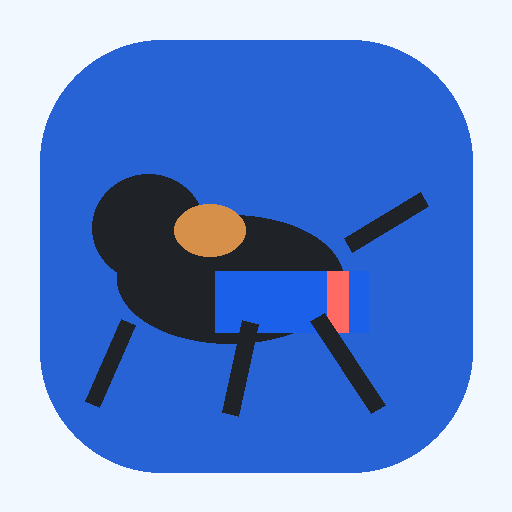
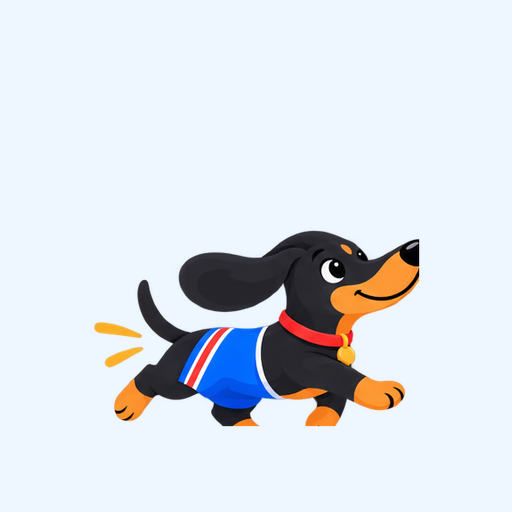
Nourish V3

diff --git a/styles.css b/styles.css
@@ -1,1 +1,18 @@
  :root{--blue:#2863d6;--green:#3fc27a;--coral:#ff6f68;--yellow:#ffc936;--purple:#8a6de9;--ink:#15305b;--muted:#6e7d95;--line:#e4ecf7;--bg:#f8fbff;--card:#fff;--shadow:0 10px 35px rgba(30,73,133,.08)}*{box-sizing:border-box}html,body{margin:0;background:var(--bg);color:var(--ink);font-family:-apple-system,BlinkMacSystemFont,"SF Pro Display","Segoe UI",sans-serif;-webkit-text-size-adjust:100%}body{min-height:100vh}button,input,select{font:inherit;font-size:16px}button{cursor:pointer}#splash{position:fixed;inset:0;background:linear-gradient(#eaf7ff,#fffaf0);z-index:100;display:flex;flex-direction:column;align-items:center;justify-content:center;text-align:center;transition:.35s}#splash.hide{opacity:0;pointer-events:none}#splash img{width:min(70vw,360px)}.splash-tag{margin-top:18px;color:var(--muted);font-weight:650}.hidden{visibility:hidden}header{display:flex;align-items:center;justify-content:space-between;padding:calc(10px + env(safe-area-inset-top)) 18px 8px;max-width:780px;margin:auto}.brand-wrap{display:flex;align-items:center;gap:8px}.brand-dog{width:64px;height:38px}.brand{font-size:26px;font-weight:900;letter-spacing:-.05em;color:#0d3a86;line-height:.8}.brand small{display:block;font-size:10px;letter-spacing:0;margin-left:24px}.brand.big{font-size:48px}.brand.big small{font-size:16px;margin-left:0}.lang-toggle,.settings-lang{display:flex;background:#eaf2ff;padding:3px;border-radius:12px}.lang-toggle button,.settings-lang button{border:0;background:transparent;color:var(--blue);font-weight:800;padding:7px 9px;border-radius:9px}.lang-toggle button.active,.settings-lang button.active{background:var(--blue);color:#fff}main{max-width:780px;margin:auto;padding:4px 14px calc(96px + env(safe-area-inset-bottom))}.page{display:none}.page.active{display:block}.card{background:var(--card);border:1px solid var(--line);border-radius:24px;box-shadow:var(--shadow);padding:17px;margin-bottom:12px}.hero{display:flex;justify-content:space-between;align-items:center;background:linear-gradient(135deg,#e8f6ff,#fff9e8);overflow:hidden;min-height:122px}.hero-dog{width:150px;margin:-10px -10px -20px 0}.hello{font-size:23px;font-weight:900;color:var(--blue);margin-bottom:8px}.hero-copy{font-size:14px;color:var(--muted);font-weight:650;max-width:180px}.date-row{display:flex;justify-content:center;margin:10px 0}.date-btn{border:0;background:transparent;color:var(--ink);font-weight:800}.kpi-grid{display:grid;grid-template-columns:repeat(4,1fr);gap:9px;margin-bottom:12px}.kpi{border-radius:20px;padding:14px 10px;background:white;border:1px solid var(--line);box-shadow:var(--shadow);text-align:center}.kpi span{display:block;font-size:11px;color:var(--muted);font-weight:800;text-transform:uppercase}.kpi strong{display:block;font-size:23px;margin-top:3px}.kpi small{font-size:11px;color:var(--muted)}.solid-icon{width:34px;height:34px;border-radius:50%;display:grid;place-items:center;margin:0 auto 7px;color:white;font-weight:900}.calories .solid-icon{background:var(--yellow)}.burned .solid-icon{background:var(--coral)}.net .solid-icon{background:var(--blue)}.protein .solid-icon{background:var(--purple)}.progress-card{background:linear-gradient(135deg,#eef7ff,#fff)}.progress-top{display:flex;justify-content:space-between;font-size:13px;font-weight:800}.progress-bar{height:10px;border-radius:999px;background:#e7eef8;margin:10px 0;overflow:hidden}.progress-bar i{display:block;height:100%;width:0;background:linear-gradient(90deg,var(--blue),var(--green));border-radius:99px}.encouragement{font-size:13px;font-weight:650}.section-title,.page-head{display:flex;justify-content:space-between;align-items:center;margin:18px 2px 10px}.section-title h2,.page-head h1{margin:0;font-size:22px}.no-margin{margin:0 0 10px}.ghost-btn{border:0;background:#eaf2ff;color:var(--blue);padding:8px 11px;border-radius:999px;font-weight:800}.meal-card{padding:0;overflow:hidden}.meal-head{display:flex;justify-content:space-between;align-items:center;padding:15px 17px 10px}.meal-title{display:flex;align-items:center;gap:10px;font-weight:900}.meal-icon{width:34px;height:34px;border-radius:12px;background:#eef5ff;display:grid;place-items:center;color:var(--blue);font-weight:900}.food-row{display:grid;grid-template-columns:1fr auto;gap:8px;padding:12px 17px;border-top:1px solid var(--line)}.food-row button{all:unset;cursor:pointer}.food-row strong{font-size:15px}.food-row small{color:var(--muted)}.meal-total{display:flex;justify-content:space-between;padding:11px 17px;background:#f8fbff;font-size:12px;font-weight:800}.empty{padding:10px 17px 14px;color:var(--muted);font-size:13px}.segmented{display:flex;background:#edf3fb;border-radius:14px;padding:4px;margin-bottom:12px}.segmented button{flex:1;border:0;background:transparent;border-radius:10px;padding:9px;color:var(--muted);font-weight:800}.segmented button.active{background:var(--blue);color:#fff}.meal-tabs{overflow:auto}.meal-tabs button{min-width:96px}.log-card{background:#fff;border:1px solid var(--line);border-radius:18px;padding:13px;margin-bottom:9px;display:flex;justify-content:space-between;align-items:center}.log-card .left strong{display:block}.log-card .left small{color:var(--muted)}.chart-card canvas{width:100%;display:block}.chart-head{display:flex;justify-content:space-between;align-items:center;margin-bottom:8px;font-weight:900}.chart-head strong{font-size:22px}.measurement-row{display:flex;justify-content:space-between;padding:11px 0;border-top:1px solid var(--line)}.measurement-row button{all:unset;width:100%;cursor:pointer}.measurement-row small{color:var(--muted)}.settings-card label{display:flex;justify-content:space-between;align-items:center;gap:12px;padding:12px 0;border-bottom:1px solid var(--line);font-weight:750}.settings-card input{max-width:140px;text-align:right}.section-label{font-size:11px;font-weight:900;color:var(--blue);margin-bottom:8px;text-transform:uppercase}.settings-lang{width:100%}.settings-lang button{flex:1}.row-btn{display:flex!important;justify-content:space-between;align-items:center;width:100%;border:0;border-top:1px solid var(--line);background:transparent;padding:14px 0!important;text-align:left;color:var(--ink);font-weight:750}.file-label input{display:none}.input-unit{display:flex;align-items:center;gap:8px}.fineprint{font-size:12px;color:var(--muted)}.danger{width:100%;border:1px solid #ffd2ce;background:#fff5f4;color:#b94f48;border-radius:14px;padding:13px;font-weight:900;margin-top:13px}.primary{width:100%;border:0;background:var(--blue);color:#fff;border-radius:15px;padding:14px;font-weight:900}.modal{display:none;position:fixed;inset:0;background:#0b24466b;z-index:20;align-items:flex-end}.modal.open{display:flex}.sheet{background:var(--bg);width:100%;max-width:780px;margin:auto;border-radius:28px 28px 0 0;padding:20px 18px calc(20px + env(safe-area-inset-bottom));max-height:92vh;overflow:auto}.sheet-head{display:flex;justify-content:space-between;align-items:center}.x{border:0;background:#e9f0fa;width:36px;height:36px;border-radius:50%;font-size:22px}.sheet label{display:block;font-size:12px;font-weight:850;color:var(--muted);margin:12px 0}.sheet input,.sheet select{width:100%;border:1px solid var(--line);background:#fff;border-radius:13px;padding:12px;color:var(--ink)}.two{display:grid;grid-template-columns:1fr 1fr;gap:10px}.quantity-row{display:flex;justify-content:space-between;align-items:center;margin:13px 0;font-weight:850;color:var(--muted)}.quantity-row div{display:flex;align-items:center;gap:14px}.quantity-row button{width:38px;height:38px;border:0;border-radius:12px;background:#eaf2ff;color:var(--blue);font-size:22px;font-weight:900}.total-box{background:#fff7d8;border-radius:15px;padding:14px;display:flex;justify-content:space-between;margin:12px 0}.checkline{display:flex!important;align-items:center;gap:9px;color:var(--ink)!important}.checkline input{width:auto!important}.weekly-sheet{text-align:center}.weekly-sheet img{width:210px}.weekly-sheet h2{font-size:28px;color:var(--blue)}.ghost-wide{width:100%;border:0;background:transparent;color:var(--blue);padding:13px;font-weight:800}nav{position:fixed;left:0;right:0;bottom:0;background:rgba(255,255,255,.93);backdrop-filter:blur(18px);border-top:1px solid var(--line);display:flex;justify-content:center;padding:7px 8px calc(7px + env(safe-area-inset-bottom));z-index:10}nav button{width:min(25%,195px);border:0;background:transparent;color:var(--muted);font-size:11px;font-weight:800}nav button.active{color:var(--blue)}nav em{font-style:normal}.navicon{display:block;font-size:19px;margin-bottom:3px}@media(max-width:520px){.kpi-grid{grid-template-columns:1fr 1fr}.hero-dog{width:128px}}
+/* V2.1 approved Saucisse artwork */
+#splash img{width:min(82vw,430px);max-height:300px;object-fit:contain;filter:none}
+.brand-dog{width:78px;height:48px;object-fit:contain;object-position:center;filter:none}
+.hero{position:relative;min-height:165px;padding-right:44%;background:
+  radial-gradient(circle at 88% 18%,#ffd15a 0 18px,transparent 19px),
+  linear-gradient(135deg,#e9f7ff 0%,#fff9e8 100%)}
+.hero:before,.hero:after{content:"";position:absolute;bottom:0;border-radius:60% 40% 0 0;background:#63c98c;opacity:.95}
+.hero:before{left:-14px;width:78px;height:42px;transform:rotate(-12deg)}
+.hero:after{right:-8px;width:88px;height:48px;transform:rotate(10deg)}
+.hero-dog{position:absolute;right:4px;bottom:-4px;width:45%;max-width:245px;height:auto;margin:0;z-index:1;object-fit:contain;filter:none}
+.hero>div{position:relative;z-index:2}
+.weekly-sheet img{width:min(62vw,260px);max-height:210px;object-fit:contain;filter:none}
+@media(max-width:520px){
+  .brand-dog{width:65px;height:42px}
+  .hero{padding-right:42%;min-height:150px}
+  .hero-dog{width:43%;right:2px}
+}

diff --git a/index.html b/index.html
@@ -1,7 +1,7 @@
 <!doctype html><html lang="en"><head><meta charset="utf-8"><meta name="viewport" content="width=device-width,initial-scale=1,maximum-scale=1,viewport-fit=cover,user-scalable=no"><meta name="theme-color" content="#f8fbff"><meta name="apple-mobile-web-app-capable" content="yes"><meta name="apple-mobile-web-app-status-bar-style" content="default"><meta name="apple-mobile-web-app-title" content="Nourish"><link rel="manifest" href="manifest.webmanifest"><link rel="apple-touch-icon" href="icon-180.png"><link rel="stylesheet" href="styles.css"><title>Nourish with Saucisse</title></head><body>
-<div id="splash"><img src="saucisse.svg" alt=""><div class="brand big">Nourish <small>with Saucisse</small></div><div class="splash-tag" data-i18n="splashTag">Good food. Bright days. A healthier you.</div></div>
-<div id="app" class="hidden"><header><div class="brand-wrap"><img src="saucisse.svg" alt="" class="brand-dog"><div class="brand">Nourish <small>with Saucisse</small></div></div><div class="lang-toggle"><button data-lang="en" class="active">EN</button><button data-lang="fr">FR</button></div></header><main>
-<section class="page active" id="homePage"><div class="hero card"><div><div class="hello" id="helloText">Good morning!</div><div class="hero-copy" data-i18n="heroCopy">Small steps. Good food. Happier you.</div></div><img src="saucisse.svg" alt="" class="hero-dog"></div><div class="date-row"><button class="date-btn" id="dateButton"></button></div><div class="kpi-grid"><div class="kpi calories"><div class="solid-icon">◉</div><span data-i18n="eaten">Eaten</span><strong id="eatenKcal">0</strong><small>kcal</small></div><div class="kpi burned"><div class="solid-icon">▲</div><span data-i18n="burned">Burned</span><strong id="burnedKcal">0</strong><small>kcal</small></div><div class="kpi net"><div class="solid-icon">≋</div><span data-i18n="net">Net</span><strong id="netKcal">0</strong><small id="netTargetText"></small></div><div class="kpi protein"><div class="solid-icon">●</div><span data-i18n="protein">Protein</span><strong id="proteinTotal">0g</strong><small id="proteinTargetText"></small></div></div><div class="card progress-card"><div class="progress-top"><span data-i18n="todayProgress">Today's progress</span><strong id="progressLabel"></strong></div><div class="progress-bar"><i id="progressBar"></i></div><div class="encouragement" id="encouragement"></div></div><div class="section-title"><h2 data-i18n="meals">Meals</h2><button class="ghost-btn" id="openExercise" data-i18n="addExercise">+ Exercise</button></div><div id="mealSections"></div></section>
+<div id="splash"><img src="saucisse-running.png" alt="Saucisse"><div class="brand big">Nourish <small>with Saucisse</small></div><div class="splash-tag" data-i18n="splashTag">Good food. Bright days. A healthier you.</div></div>
+<div id="app" class="hidden"><header><div class="brand-wrap"><img src="saucisse-running.png" alt="Saucisse" class="brand-dog"><div class="brand">Nourish <small>with Saucisse</small></div></div><div class="lang-toggle"><button data-lang="en" class="active">EN</button><button data-lang="fr">FR</button></div></header><main>
+<section class="page active" id="homePage"><div class="hero card"><div><div class="hello" id="helloText">Good morning!</div><div class="hero-copy" data-i18n="heroCopy">Small steps. Good food. Happier you.</div></div><img src="saucisse-running.png" alt="Saucisse" class="hero-dog"></div><div class="date-row"><button class="date-btn" id="dateButton"></button></div><div class="kpi-grid"><div class="kpi calories"><div class="solid-icon">◉</div><span data-i18n="eaten">Eaten</span><strong id="eatenKcal">0</strong><small>kcal</small></div><div class="kpi burned"><div class="solid-icon">▲</div><span data-i18n="burned">Burned</span><strong id="burnedKcal">0</strong><small>kcal</small></div><div class="kpi net"><div class="solid-icon">≋</div><span data-i18n="net">Net</span><strong id="netKcal">0</strong><small id="netTargetText"></small></div><div class="kpi protein"><div class="solid-icon">●</div><span data-i18n="protein">Protein</span><strong id="proteinTotal">0g</strong><small id="proteinTargetText"></small></div></div><div class="card progress-card"><div class="progress-top"><span data-i18n="todayProgress">Today's progress</span><strong id="progressLabel"></strong></div><div class="progress-bar"><i id="progressBar"></i></div><div class="encouragement" id="encouragement"></div></div><div class="section-title"><h2 data-i18n="meals">Meals</h2><button class="ghost-btn" id="openExercise" data-i18n="addExercise">+ Exercise</button></div><div id="mealSections"></div></section>
 <section class="page" id="logPage"><div class="page-head"><h1 data-i18n="logFood">Log Food</h1><button class="ghost-btn" id="quickAddBtn" data-i18n="quickAdd">Quick add</button></div><div class="segmented meal-tabs" id="mealTabs"></div><div id="mealLogList"></div></section>
 <section class="page" id="progressPage"><div class="page-head"><h1 data-i18n="progress">Progress</h1></div><div class="segmented"><button data-period="week" class="active" data-i18n="week">Week</button><button data-period="month" data-i18n="month">Month</button></div><div class="chart-card card"><div class="chart-head"><span data-i18n="calories">Calories</span><strong id="avgCalories">—</strong></div><canvas id="calorieChart" height="190"></canvas></div><div class="chart-card card"><div class="chart-head"><span data-i18n="protein">Protein</span><strong id="avgProtein">—</strong></div><canvas id="proteinChart" height="190"></canvas></div><div class="chart-card card"><div class="chart-head"><span data-i18n="weight">Weight</span><strong id="weightNow">—</strong></div><canvas id="weightChart" height="190"></canvas></div><div class="card measurements-card"><div class="section-title no-margin"><h2 data-i18n="measurements">Measurements</h2><button class="ghost-btn" id="addMeasurement" data-i18n="add">+ Add</button></div><div id="measurementList"></div></div></section>
 <section class="page" id="morePage"><div class="page-head"><h1 data-i18n="goalsSettings">Goals & Settings</h1></div><div class="card settings-card"><label><span data-i18n="dailyCalories">Daily calories</span><input id="settingCalories" type="number" inputmode="numeric"></label><label><span data-i18n="dailyProtein">Daily protein</span><input id="settingProtein" type="number" inputmode="decimal"></label><label><span data-i18n="weightGoal">Weight goal</span><div class="input-unit"><input id="settingWeightGoal" type="number" step="0.1" inputmode="decimal"><b>kg</b></div></label></div><div class="card settings-card"><div class="section-label" data-i18n="language">Language</div><div class="settings-lang"><button data-lang="en">English</button><button data-lang="fr">Français</button></div></div><div class="card settings-card"><div class="section-label" data-i18n="data">Data</div><button class="row-btn" id="exportBackup"><span data-i18n="exportBackup">Export backup</span><b>›</b></button><label class="row-btn file-label"><span data-i18n="restoreBackup">Restore backup</span><b>›</b><input type="file" id="restoreBackup" accept=".json,application/json"></label><button class="row-btn" id="exportCsv"><span data-i18n="exportCsv">Export CSV</span><b>›</b></button><button class="danger" id="deleteAll" data-i18n="deleteAll">Delete All Data</button><p class="fineprint" data-i18n="localNote">Your data is stored only on this device. Export a backup regularly.</p></div></section>

diff --git a/sw.js b/sw.js
@@ -1,1 +1,1 @@
-const CACHE='nourish-v2-1';const ASSETS=['./','./index.html','./styles.css','./app.js','./manifest.webmanifest','./icon-180.png','./icon-192.png','./icon-512.png','./saucisse.svg'];self.addEventListener('install',e=>e.waitUntil(caches.open(CACHE).then(c=>c.addAll(ASSETS))));self.addEventListener('activate',e=>e.waitUntil(caches.keys().then(k=>Promise.all(k.filter(x=>x!==CACHE).map(x=>caches.delete(x))))));self.addEventListener('fetch',e=>e.respondWith(caches.match(e.request).then(r=>r||fetch(e.request))));
+const CACHE='nourish-v2-2';const ASSETS=['./','./index.html','./styles.css','./app.js','./manifest.webmanifest','./icon-180.png','./icon-192.png','./icon-512.png','./saucisse-running.png','./saucisse-celebrate.png','./saucisse-master.png'];self.addEventListener('install',e=>e.waitUntil(caches.open(CACHE).then(c=>c.addAll(ASSETS))));self.addEventListener('activate',e=>e.waitUntil(caches.keys().then(k=>Promise.all(k.filter(x=>x!==CACHE).map(x=>caches.delete(x))))));self.addEventListener('fetch',e=>e.respondWith(caches.match(e.request).then(r=>r||fetch(e.request))));

diff --git a/README.md b/README.md
@@ -5,3 +5,9 @@ Added: EN/FR, eaten/burned/net calories, exercise, favourites, quantities, weigh
 To update GitHub Pages, replace the old repository files with these files and commit.
 
 Important: V2 uses a new local storage key (`nourish-v2`). If you have meaningful V1 data, export it first; V1 is not automatically migrated.
+
+## V2.1 visual test
+- Replaced the temporary SVG mascot with the approved Saucisse artwork
+- Added individual approved pose PNGs
+- Updated splash, header, hero card, weekly recap and Home Screen icons
+- Bumped offline cache so iPhone loads the new artwork
